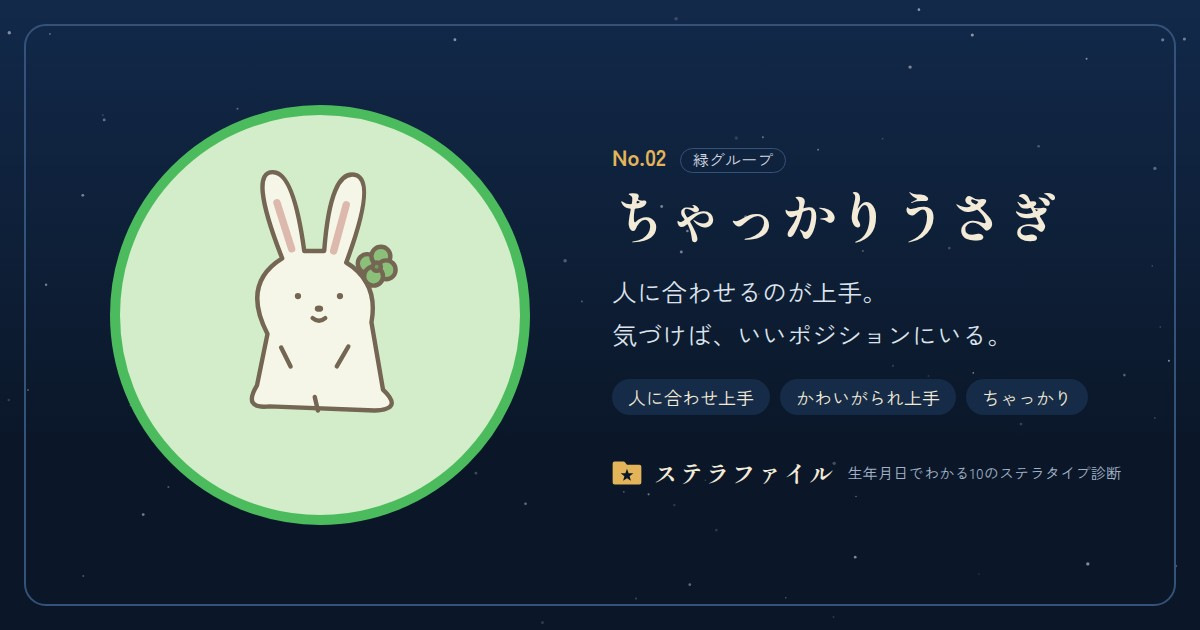
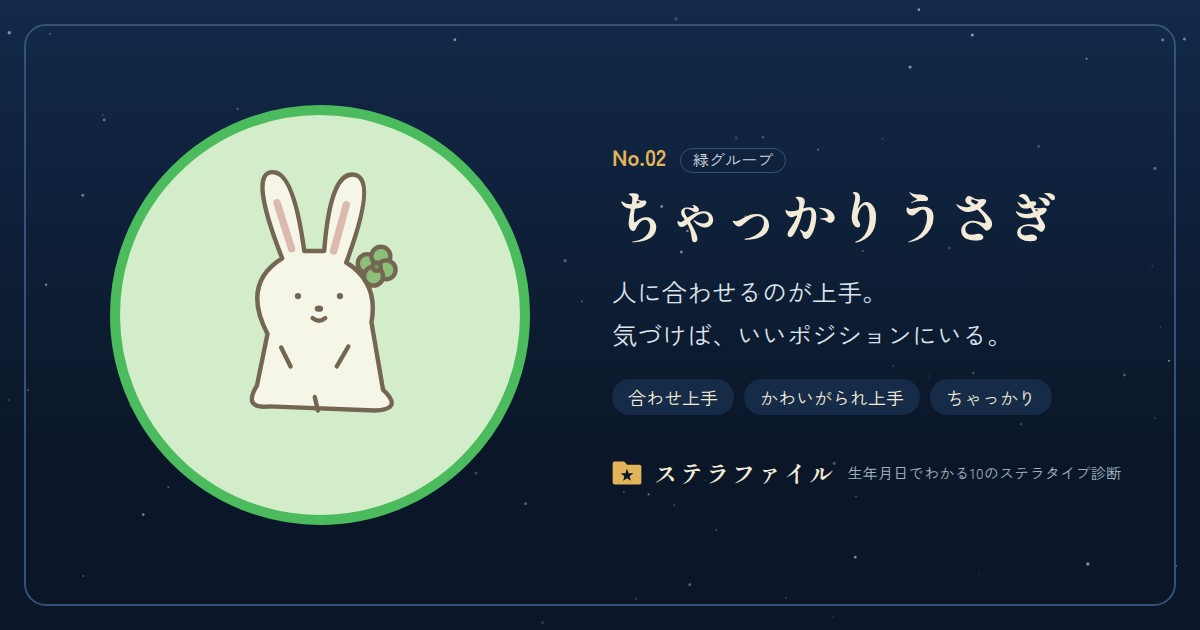
Point to the item from the hero instead of badging the character; unify notation
- Remove the item badge over the character art and the item icon/label in the
  book reveal. The result hero now has a small link, "下にスクロールすると、
  あなたのアイテムがわかります", that jumps to the item chapter.
- Unify spelling across the copy: ズル (noun), ため込む, 抱え込む, 引っ張る,
  ひとりで, ラク, がんばる, 優しい, いい, 周り, 怖い.
- Keywords: 目立ってなんぼ → 華がある, 人に合わせ上手 → 合わせ上手
  (OG cards for phoenix and rabbit regenerated).

Claude-Session: https://claude.ai/code/session_01GAXW9NdvsHc4VH9BHs7hcc

Changed region(s): [[0.5242, 0.6032, 0.925, 0.6635]]

diff --git a/src/data/type-details.ts b/src/data/type-details.ts
@@ -16,7 +16,7 @@ export const TYPE_DETAILS: Record<string, TypeDetail> = {
     jobs: ["スポーツ選手・トレーナー", "警察官・消防士・自衛官", "建築・現場監督", "職人・専門職", "経営者・起業家", "教師・スポーツ指導者", "法律関係", "管理職・リーダー職"],
     relationships: "裏表がなく、さっぱりした付き合いができるので信頼されやすい人。ただ、ストレートな言い方や頑固さから、コミュニケーションのトラブルになることも少なくありません。言い方をひと工夫したり、相手の意見をいったん受け止めたりするだけで、人付き合いがずっとラクになります。",
     stress: "つらくても弱音を吐かず、黙って耐え続けます。でも、限界を超えてポキッと折れてしまうと、しばらく復活できないのがこのタイプ。折れる前に、体を動かしたり、自然の中を散歩したりして、こまめに発散するのがおすすめです。",
-    advice: "結果が出るまでに時間がかかるタイプなので、短い期間で自分を判断しないこと。やりたい役割があるときは、推薦を待たずに一度だけ自分から手を挙げてみましょう。がんばった日に「ほめて」と言える相手がひとりいると、ずいぶん楽になります。",
+    advice: "結果が出るまでに時間がかかるタイプなので、短い期間で自分を判断しないこと。やりたい役割があるときは、推薦を待たずに一度だけ自分から手を挙げてみましょう。がんばった日に「ほめて」と言える相手がひとりいると、ずいぶんラクになります。",
   },
   rabbit: {
     intro: [
@@ -26,7 +26,7 @@ export const TYPE_DETAILS: Record<string, TypeDetail> = {
     aruaru: ["年上や先輩から、よくかわいがられる", "「お願い」と頼むと、だいたい聞いてもらえる", "知り合いの紹介で、いい話が舞い込んでくる", "友だちが多く、いろいろなグループに顔を出している", "相手によって、話し方やキャラを自然に切り替えている", "みんなにいい顔をして、あとでどっと疲れる"],
     weakness: "人に合わせるのが上手なぶん、八方美人になりがち。みんなにいい顔をしようとして、気づけばストレスがたまっています。自分の本音がわからなくなることも。ちゃっかりしているところが、人によっては「ずるい」と見られてしまう場合もあります。",
     romance: "こまめな連絡や、ちょっとした気づかいで距離を縮めていくタイプ。相手の好みに合わせるのが上手なので、モテるほうです。ただ、合わせすぎて本当の自分を見せられないまま疲れてしまうことも。行きたい場所や食べたいものなど、小さなわがままから伝えてみましょう。",
-    work: "人と人の間に入って調整する役割が得意です。相手によって話し方を変えられるので、交渉や営業、接客でも活躍できるタイプ。一人で黙々とやる仕事より、チームの中で動く仕事のほうが向いています。",
+    work: "人と人の間に入って調整する役割が得意です。相手によって話し方を変えられるので、交渉や営業、接客でも活躍できるタイプ。ひとりで黙々とやる仕事より、チームの中で動く仕事のほうが向いています。",
     jobs: ["営業・販売", "秘書・アシスタント", "広報・PR", "接客・サービス業", "カウンセラー", "デザイナー", "フラワー・園芸関係", "編集者"],
     relationships: "友だちが多くなりやすく、人間関係で得をしやすいタイプ。紹介してもらったり、引き立ててもらったりと、縁が次の縁を運んできます。ただ、全員に好かれようとして八方美人になると疲れてしまうので、気をつかわなくていい友だちとの時間を大切にしてください。",
     stress: "表面上はニコニコしながら、心の中でどんどん距離をとっていきます。気づいたら連絡を返さなくなっている、というパターンも。好きなカフェや、かわいいものに囲まれて過ごすと回復します。",
@@ -44,7 +44,7 @@ export const TYPE_DETAILS: Record<string, TypeDetail> = {
     jobs: ["企画・プランナー", "広告・マーケティング", "タレント・配信者", "イベント企画", "営業", "広報", "起業家", "教師・講師"],
     relationships: "明るさに惹かれて自然と人が集まってくる、人気者タイプ。一緒にいる人を前向きな気持ちにできるのは、このタイプの大きな強みです。ただ、「いつも元気な人」というイメージを守ろうとして無理をしがち。元気がない日があっても、あなたを好きな人たちは離れていきません。",
     stress: "イライラが、つい態度や表情に出てしまいます。そんなときは、とにかく外に出るのがいちばん。日の光を浴びたり、友だちとおしゃべりしたりするだけで、驚くほど早く元気を取り戻せます。",
-    advice: "人前に出る役は、遠慮せず引き受けてよいタイプです。そのぶん、始めたことをひとつだけ最後までやりきる経験を意識して増やしましょう。「言い出したら最後までやる人」と思われると、周りからの信頼がいっそう厚くなります。",
+    advice: "人前に出る役は、遠慮せず引き受けていいタイプです。そのぶん、始めたことをひとつだけ最後までやりきる経験を意識して増やしましょう。「言い出したら最後までやる人」と思われると、周りからの信頼がいっそう厚くなります。",
   },
   fox: {
     intro: [
@@ -68,32 +68,32 @@ export const TYPE_DETAILS: Record<string, TypeDetail> = {
     aruaru: ["好きな食べ物や趣味が、何年たっても変わらない", "流行りものには、あまり飛びつかない", "「さすが親分！」とおだてられると、つい張り切ってしまう", "後輩や年下から頼られると、放っておけない", "みんなが尻込みする場面で、なぜか堂々としていられる", "めったに怒らないぶん、怒ると本気で怖がられる"],
     weakness: "自分の軸があるぶん、頑固で融通がきかないと思われることも。おだてに弱く、持ち上げられると無理な頼みまで引き受けてしまいがちです。ふだんは穏やかでも、我慢の限界を超えるとマグマのように爆発し、周りが驚くほど激しく怒ることがあります。",
     romance: "好きになった人のことは、長くずっと大切にするタイプ。刺激よりも安心感を大事にし、付き合うほど味が出ます。頼られるとうれしくて、つい相手の世話を焼いてしまいますが、たまには自分が甘える側に回ってみると、関係にいい変化が生まれます。",
-    work: "チームのまとめ役や、親分ポジションで信頼されます。度胸があるので、トラブルや大事な場面でも逃げずに前に出られる頼もしい存在。やさしいだけでなく、言うべきことはきちんと言える厳しさも持っています。",
+    work: "チームのまとめ役や、親分ポジションで信頼されます。度胸があるので、トラブルや大事な場面でも逃げずに前に出られる頼もしい存在。優しいだけでなく、言うべきことはきちんと言える厳しさも持っています。",
     jobs: ["管理職・マネージャー", "経営者・店長", "公務員", "銀行・金融", "不動産", "建築", "人事・総務", "福祉"],
-    relationships: "面倒見がよく、頼ってくれる人を自分と同じくらい大切にできる人。その安心感から、自然と人が集まってきます。ただ、本気で怒ると周りが驚くほどの激しさがあるので、不満はためこまずに小出しに伝えるのがコツです。",
+    relationships: "面倒見がよく、頼ってくれる人を自分と同じくらい大切にできる人。その安心感から、自然と人が集まってきます。ただ、本気で怒ると周りが驚くほどの激しさがあるので、不満はため込まずに小出しに伝えるのがコツです。",
     stress: "いつもの穏やかさが消えて口数が減り、ピリッとした空気をまといます。爆発する前に、おいしいものを食べて、たっぷり寝るのがいちばんの回復法です。",
-    advice: "頼まれると引き受けてしまうタイプなので、月に一度は「誰の面倒も見ない日」を予定に入れておきましょう。怒りをためこまないよう、小さな不満はその日のうちに軽く伝えるのがコツです。",
+    advice: "頼まれると引き受けてしまうタイプなので、月に一度は「誰の面倒も見ない日」を予定に入れておきましょう。怒りをため込まないよう、小さな不満はその日のうちに軽く伝えるのがコツです。",
   },
   alpaca: {
     intro: [
-      "ほっとけないアルパカは、面倒見がよく、献身的なタイプです。困っている人がいると放っておけず、頼まれる前から手を貸してしまうことも。サービス精神が旺盛で、ボランティアや誰かのお世話を自然と引き受けています。親分のように引っぱるというより、家族のようにそばで支える存在です。",
+      "ほっとけないアルパカは、面倒見がよく、献身的なタイプです。困っている人がいると放っておけず、頼まれる前から手を貸してしまうことも。サービス精神が旺盛で、ボランティアや誰かのお世話を自然と引き受けています。親分のように引っ張るというより、家族のようにそばで支える存在です。",
       "協調性があり、みんなの和を大事にするバランサー。人と人の間に立って、場がうまく回るようにさりげなく調整しています。人を育てるのも得意で、後輩や年下がぐんぐん伸びていくのを見守るのが喜び。どこか独特な雰囲気があり、「ちょっと不思議な人」と見られることもあります。",
     ],
-    aruaru: ["頼まれていないのに、気づくとお世話をしている", "みんなが揉めないように、間に入ってバランスをとる", "人のことが心配で、つい大変な役を引き受けてしまう", "後輩や年下の成長が、自分のことのようにうれしい", "「独特だね」「ちょっと変わってるね」と言われる", "しんどくても、つい一人で我慢してしまう"],
-    weakness: "面倒見がいいぶん、お世話をやりすぎてしまうことがあります。情に流されやすく、頼まれると断れないことも。人のことを心配して大変な役まで引き受け、我慢を重ねるうちに、気づけばストレスを抱えこんでいます。",
+    aruaru: ["頼まれていないのに、気づくとお世話をしている", "みんなが揉めないように、間に入ってバランスをとる", "人のことが心配で、つい大変な役を引き受けてしまう", "後輩や年下の成長が、自分のことのようにうれしい", "「独特だね」「ちょっと変わってるね」と言われる", "しんどくても、ついひとりで我慢してしまう"],
+    weakness: "面倒見がいいぶん、お世話をやりすぎてしまうことがあります。情に流されやすく、頼まれると断れないことも。人のことを心配して大変な役まで引き受け、我慢を重ねるうちに、気づけばストレスを抱え込んでいます。",
     romance: "相手のために尽くす、献身的なタイプ。日々の小さなお世話や気づかいで、家族のようなあたたかい関係を育てていきます。ただ、情に流されやすく、尽くしすぎてしまう傾向も。相手からしてもらうことも、素直に受け取るようにしましょう。",
-    work: "教える、育てる、支える仕事に向いています。一人ひとりに丁寧に向き合えるので、後輩の指導や人材育成で大きな力を発揮します。チームの和を保つバランサーとしても頼られますが、大変な仕事を一人で抱えこまないように気をつけましょう。",
+    work: "教える、育てる、支える仕事に向いています。一人ひとりに丁寧に向き合えるので、後輩の指導や人材育成で大きな力を発揮します。チームの和を保つバランサーとしても頼られますが、大変な仕事をひとりで抱え込まないように気をつけましょう。",
     jobs: ["教師・講師", "保育士", "介護・福祉", "看護師・医療スタッフ", "人事・人材育成", "料理人・食品関係", "農業", "マネージャー・プロデューサー"],
-    relationships: "協調性があり、みんなの間に立ってバランスをとれる人。家族のような距離感で人を大切にするので、自然と周りに人が集まってきます。ただ、我慢をためこみやすいタイプ。ときには「ちょっとしんどい」と口に出しても、関係は崩れません。",
+    relationships: "協調性があり、みんなの間に立ってバランスをとれる人。家族のような距離感で人を大切にするので、自然と周りに人が集まってきます。ただ、我慢をため込みやすいタイプ。ときには「ちょっとしんどい」と口に出しても、関係は崩れません。",
     stress: "つらいことがあっても、周りに心配をかけまいと、なかなか表に出さずに我慢してしまいます。心配ごとで頭がいっぱいになったら、紙に書き出して整理したり、お世話から離れて自分だけの時間を過ごしたりするのがおすすめです。",
     advice: "お世話をする側に回りがちなので、「手伝って」「代わって」を言う回数を意識して増やしましょう。頼られることと同じくらい、頼ることにも慣れておくと、長く無理なく続けられます。",
   },
   doberman: {
     intro: [
-      "正々堂々ドーベルマンは、白黒はっきりさせたい、筋の通ったタイプです。ずるや嘘が本当に苦手で、おかしいと思ったことはきちんと口にします。そのぶん、人とぶつかる場面も少なくありません。でも、どれだけぶつかっても、義理だけはいちばん守る人です。",
+      "正々堂々ドーベルマンは、白黒はっきりさせたい、筋の通ったタイプです。ズルや嘘が本当に苦手で、おかしいと思ったことはきちんと口にします。そのぶん、人とぶつかる場面も少なくありません。でも、どれだけぶつかっても、義理だけはいちばん守る人です。",
       "好き嫌いがはっきり分かれやすいのも、このタイプの特徴。苦手に思われることもあれば、逆にとことん好かれることもあります。飾らない素の自分を認めてほしいという気持ちが強く、自分を曲げない頑固さも持っています。",
     ],
-    aruaru: ["ずるや嘘を見ると、黙っていられない", "気づくと、誰かと言い合いになっている", "苦手に思われる人もいれば、熱烈なファンもいる", "受けた恩や約束は、何年たっても忘れない", "キャラを作るより、素のままでいたい", "遠回しな言い方をされると、じれったくなる"],
+    aruaru: ["ズルや嘘を見ると、黙っていられない", "気づくと、誰かと言い合いになっている", "苦手に思われる人もいれば、熱烈なファンもいる", "受けた恩や約束は、何年たっても忘れない", "キャラを作るより、素のままでいたい", "遠回しな言い方をされると、じれったくなる"],
     weakness: "はっきりしているぶん、言い方がきつくなって人とぶつかりやすいところがあります。素の自分を認めてほしい気持ちが強く、自分を曲げられない頑固さも。ケンカになると、お互いに引けずに長引いてしまうことがあります。",
     romance: "駆け引きは苦手で、正直に話し合える関係が合っています。好きな人には一途で、一度決めた相手への義理は最後まで通します。ぶつかることもありますが、ケンカになったときは、正しさを主張する前に相手の気持ちを聞いてみてください。それだけで、ずいぶん話しやすくなります。",
     work: "判断力と行動力があるので、問題が起きたときや、改革が必要な場面で頼りにされます。結論だけでなく理由も一緒に伝えるようにすると、周りも納得して動いてくれます。",
@@ -109,7 +109,7 @@ export const TYPE_DETAILS: Record<string, TypeDetail> = {
     ],
     aruaru: ["傷つきそうな場面では、先にトゲのある言い方をしてしまう", "本当はケンカしたくないのに、口が悪いと思われる", "近寄りがたい人だと思われていたと、あとから知る", "特別扱いやVIP待遇をされると、内心かなりうれしい", "細かいところまで完璧に仕上げないと気がすまない", "気をつかわない付き合いに、なかなか慣れない"],
     weakness: "傷つきたくない気持ちが強いぶん、トゲのある言い方で相手を遠ざけてしまうことがあります。リラックスした付き合いが苦手で、打ち解けるまでに時間がかかりがち。完璧主義寄りなので、自分にも人にも厳しくなって疲れてしまうこともあります。",
-    romance: "特別扱いされたり、大切にされていると感じたりすると、とてもうれしいタイプ。高嶺の花に見られやすく、なかなか近づいてもらえないことも。傷つくのがこわくて平気なふりをしてしまいがちなので、少しずつ本音を伝えていきましょう。",
+    romance: "特別扱いされたり、大切にされていると感じたりすると、とてもうれしいタイプ。高嶺の花に見られやすく、なかなか近づいてもらえないことも。傷つくのが怖くて平気なふりをしてしまいがちなので、少しずつ本音を伝えていきましょう。",
     work: "完璧主義寄りの性格は、職人仕事や品質にこだわる仕事で大きな武器になります。細部まで妥協しない仕上げで頼りにされるタイプ。理想が高いぶん、どこまでやったら完成かを先に決めておくと、ラクに進められます。",
     jobs: ["職人・クリエイター", "デザイナー・スタイリスト", "ジュエリー・アパレル", "美容師・ヘアメイク", "芸術家・アーティスト", "品質管理・検査", "経理・財務", "士業などの専門職"],
     relationships: "リラックスした付き合いが少し苦手で、高嶺の花のように見られがち。でも、人の痛みがわかる繊細さは、信頼した相手にとって大きな安心になります。合わない場所や人からは、早めに距離をとってかまいません。",
@@ -133,14 +133,14 @@ export const TYPE_DETAILS: Record<string, TypeDetail> = {
   capybara: {
     intro: [
       "温泉カピバラは、穏やかで繊細なタイプです。そばにいるだけで、なぜか周りの空気がゆるんで、癒しが伝染していく不思議な存在。人の気持ちに寄り添うのが上手で、自然と相談相手になっていることも多いはず。",
-      "好きなことにはオタク気質でとことんのめり込み、ひとりで楽しむ時間も大切にします。優しそうに見えるぶん、実は心の中に溜め込んでいるものがすごく多いタイプ。人に寄り添いたいのと同じくらい、自分も誰かに寄り添ってほしいと思っています。",
+      "好きなことにはオタク気質でとことんのめり込み、ひとりで楽しむ時間も大切にします。優しそうに見えるぶん、実は心の中にため込んでいるものがすごく多いタイプ。人に寄り添いたいのと同じくらい、自分も誰かに寄り添ってほしいと思っています。",
     ],
     aruaru: ["好きなジャンルの話になると、止まらなくなる", "推しや趣味の時間が、いちばんの回復手段", "一緒にいると、相手の肩の力が抜けていく", "言いたいことがあっても、つい飲み込んでしまう", "平気そうに見えて、実はけっこう落ち込んでいる", "誰かに寄り添ってもらえると、すごく安心する"],
-    weakness: "繊細なぶん、相手の感情に引っ張られやすく、気持ちが沈みやすいところがあります。優しそうに見えて、実は溜め込みがすごいタイプ。自分の気持ちを飲み込み続けた結果、ある日突然、心が疲れきってしまうこともあります。",
-    romance: "黙っていても気まずくない、寄り添い合える穏やかな関係が理想です。相手の気持ちにそっと寄り添うのが上手ですが、自分も同じくらい寄り添ってほしいタイプ。溜め込む前に、さみしい、聞いてほしい、という気持ちを伝えてみてください。それはわがままではありません。",
+    weakness: "繊細なぶん、相手の感情に引っ張られやすく、気持ちが沈みやすいところがあります。優しそうに見えて、実はため込みがすごいタイプ。自分の気持ちを飲み込み続けた結果、ある日突然、心が疲れきってしまうこともあります。",
+    romance: "黙っていても気まずくない、寄り添い合える穏やかな関係が理想です。相手の気持ちにそっと寄り添うのが上手ですが、自分も同じくらい寄り添ってほしいタイプ。ため込む前に、さみしい、聞いてほしい、という気持ちを伝えてみてください。それはわがままではありません。",
     work: "じっくり考える仕事や、人に寄り添ってサポートする役割が得意です。オタク気質で好きなことを深く掘り下げられるので、研究や創作の分野でも力を発揮します。準備の時間をしっかりとれる環境だと、落ち着いて実力を出せます。",
     jobs: ["カウンセラー・心理職", "看護師・医療", "福祉", "研究者・学者", "作家・ライター", "イラストレーター・漫画家", "企画・開発", "占い師・セラピスト"],
-    relationships: "そばにいるだけで人を癒せる、心のよりどころのような存在です。ただ、人の悩みまで自分のことのように溜め込んでしまいがち。一方的に寄り添うだけでなく、あなたも寄り添ってもらえる関係を大切にしてください。",
+    relationships: "そばにいるだけで人を癒せる、心のよりどころのような存在です。ただ、人の悩みまで自分のことのようにため込んでしまいがち。一方的に寄り添うだけでなく、あなたも寄り添ってもらえる関係を大切にしてください。",
     stress: "心の元気が減ってくると、布団から出たくなくなり、気持ちが沈みがちに。限界が来る前に、温泉やお風呂、好きな作品に浸るなど、のんびり過ごす時間をとりましょう。つらいときは、信頼できる人に早めに話すことも大切です。",
     advice: "人の話を聞く役が多いので、自分の話を聞いてもらえる相手や場所を、意識してひとつ持っておきましょう。落ち込みそうなときは、温泉や好きな作品の時間を早めに入れるのが、いちばんの予防になります。",
   },

diff --git a/src/data/types.ts b/src/data/types.ts
@@ -23,15 +23,15 @@ export type CharacterType = {
 };
 export const CHARACTER_TYPES: CharacterType[] = [
   { stem: "甲", slug: "grizzly", displayName: "ほめ待ちグリズリー", shortCatch: "頼れるしっかり者。でも本当は、ほめてほしい。", summary: "まっすぐで、決めたことをコツコツ積み上げるタイプ。さっぱりした性格で、曲がったことやずるいことが大嫌いです。リーダーを任されるのは嫌いじゃないけれど、シャイなので自分から名乗り出るのは少し苦手。任されてほめられると、実はとてもうれしい。頼もしさと、素直でかわいいところのギャップが魅力です。", strengths: ["コツコツ努力を積み重ねられる", "曲がったことをしないまっすぐさ", "しんどくても投げ出さない忍耐力"], keywords: ["まっすぐ", "さっぱり", "コツコツ"], motif: "大きな木", props: ["小さな胸のリボン"], backgroundMotifs: ["若葉", "控えめな花丸"], imagePrompt: "A sturdy honey-brown grizzly with a pale cream bib, sitting upright, paws shyly together, tiny leaf-green ribbon on chest, quietly waiting for praise; one small green sprout beside it." },
-  { stem: "乙", slug: "rabbit", displayName: "ちゃっかりうさぎ", shortCatch: "人に合わせるのが上手。気づけば、いいポジションにいる。", summary: "人に合わせるのが上手で、自然とかわいがられるタイプ。「面倒を見てあげたい」「守ってあげたい」と思われやすく、人と仲良くなったことがきっかけで、得をしたりチャンスをもらえたりします。友だちも多くなりやすい、人間関係に恵まれやすい人です。", strengths: ["相手に合わせるのが上手", "かわいがられて、助けてもらいやすい", "人との縁をチャンスに変えられる"], keywords: ["人に合わせ上手", "かわいがられ上手", "ちゃっかり"], motif: "草花", props: ["小さな花のアクセサリー"], backgroundMotifs: ["クローバー"], imagePrompt: "An ivory rabbit with long rounded ears, one foot lifted lightly, a tiny four-leaf clover tucked behind one ear, a small clover at its feet, knowing but kind expression." },
-  { stem: "丙", slug: "phoenix", displayName: "勝手に主役フェニックス", shortCatch: "いるだけで場が明るくなる、生まれつきの主役。", summary: "根っから明るい、太陽のようなタイプ。ほかのタイプと比べても圧倒的にポジティブで、一緒にいる人まで元気で前向きな気持ちにしてくれます。顔や名前を覚えてもらいやすく、目立つ場所でこそ本領を発揮する、まさに人生の主役です。", strengths: ["根っからのポジティブさ", "周りを元気で前向きな気持ちにできる", "顔や名前を覚えてもらいやすい"], keywords: ["ポジティブ", "目立ってなんぼ", "ムードメーカー"], motif: "太陽", props: ["小さな丸いステージ"], backgroundMotifs: ["短い光の線"], imagePrompt: "A small coral-red phoenix with a cream belly and golden beak, a simple three-feather crest, wings open on a tiny round gold stage, three short sunshine rays, cheerfully unaware it is the star." },
+  { stem: "乙", slug: "rabbit", displayName: "ちゃっかりうさぎ", shortCatch: "人に合わせるのが上手。気づけば、いいポジションにいる。", summary: "人に合わせるのが上手で、自然とかわいがられるタイプ。「面倒を見てあげたい」「守ってあげたい」と思われやすく、人と仲良くなったことがきっかけで、得をしたりチャンスをもらえたりします。友だちも多くなりやすい、人間関係に恵まれやすい人です。", strengths: ["相手に合わせるのが上手", "かわいがられて、助けてもらいやすい", "人との縁をチャンスに変えられる"], keywords: ["合わせ上手", "かわいがられ上手", "ちゃっかり"], motif: "草花", props: ["小さな花のアクセサリー"], backgroundMotifs: ["クローバー"], imagePrompt: "An ivory rabbit with long rounded ears, one foot lifted lightly, a tiny four-leaf clover tucked behind one ear, a small clover at its feet, knowing but kind expression." },
+  { stem: "丙", slug: "phoenix", displayName: "勝手に主役フェニックス", shortCatch: "いるだけで場が明るくなる、生まれつきの主役。", summary: "根っから明るい、太陽のようなタイプ。ほかのタイプと比べても圧倒的にポジティブで、一緒にいる人まで元気で前向きな気持ちにしてくれます。顔や名前を覚えてもらいやすく、目立つ場所でこそ本領を発揮する、まさに人生の主役です。", strengths: ["根っからのポジティブさ", "周りを元気で前向きな気持ちにできる", "顔や名前を覚えてもらいやすい"], keywords: ["ポジティブ", "華がある", "ムードメーカー"], motif: "太陽", props: ["小さな丸いステージ"], backgroundMotifs: ["短い光の線"], imagePrompt: "A small coral-red phoenix with a cream belly and golden beak, a simple three-feather crest, wings open on a tiny round gold stage, three short sunshine rays, cheerfully unaware it is the star." },
   { stem: "丁", slug: "fox", displayName: "お見通し妖狐", shortCatch: "人一倍よく見ている。だから、誰より気がきく。", summary: "観察力が人一倍強く、ほかの人が見落とす細かいところまで見えているタイプ。だからこそ、言われる前に相手の変化に気づけて、気がきく人と言われます。目の前のものをじっくり見るのが得意で、好きなことにはマニアックなほどこだわる職人気質です。", strengths: ["ほかの人が気づかないことに気づける", "細かいところまでこだわれる職人気質", "人間観察が上手"], keywords: ["観察力", "気がきく", "職人気質"], motif: "灯火", props: ["小さな灯り"], backgroundMotifs: ["細い三日月"], imagePrompt: "A calm white fox with vermilion-red inner ears and short red brow markings, a single large curled vermilion-red tail and rounded ears, sitting beside a tiny warm candle in a clay holder, one small crescent moon, modest closed-mouth smile." },
   { stem: "戊", slug: "panda", displayName: "親分パンダ", shortCatch: "どっしり構えて、ぶれない。頼れるみんなの親分。", summary: "どっしり構えて、自分の軸をぶらさないタイプ。流行に流されず、好きなものはずっと好き。親分肌で、頼られるとうれしくなって面倒を見てしまいます。ふだんは穏やかですが、内側にはマグマのような激しさを秘めていて、いざというときの度胸はピカイチです。", strengths: ["自分の軸をぶらさない", "いざというときの度胸", "頼ってくれる人を最後まで守れる"], keywords: ["どっしり", "親分肌", "度胸"], motif: "山", props: ["お茶のカップ"], backgroundMotifs: ["小さな丘"], imagePrompt: "A round ivory and charcoal panda sitting with a broad reassuring posture, holding a tiny mustard-yellow teacup, a simple low hill line behind, gentle dependable expression." },
-  { stem: "己", slug: "alpaca", displayName: "ほっとけないアルパカ", shortCatch: "困っている人を、ほっとけない。家族みたいなお世話係。", summary: "献身的で面倒見がよく、家族のようにみんなのお世話をしてしまうタイプ。和を大事にするバランサーで、人を育てるのが得意です。ただ、心配しすぎて大変な役まで引き受け、我慢をためこんでしまうことも。どこか独特な雰囲気を持つ、愛されキャラです。", strengths: ["家族のように人を思いやれる献身さ", "場の和を保つバランス感覚", "人をじっくり育てられる"], keywords: ["献身的", "バランサー", "育て上手"], motif: "畑", props: ["寄り添う子どものアルパカ"], backgroundMotifs: ["芽吹き"], imagePrompt: "A fluffy golden-cream alpaca standing front-facing with a big soft topknot, banana-shaped ears and a long fluffy neck, a small baby alpaca snuggled at its side, one sprout beside them, gentle worried-but-kind expression." },
-  { stem: "庚", slug: "doberman", displayName: "正々堂々ドーベルマン", shortCatch: "遠回しな言い方は苦手。でも、誰より義理がたい。", summary: "白黒はっきりさせたい、筋の通ったタイプ。ずるや嘘が本当に苦手で、義理は何より大切にします。ストレートなぶん衝突も多く、好き嫌いがはっきり分かれやすい人。でも、好きになってくれる人からはとことん好かれます。", strengths: ["何より義理を守れる", "ずるや嘘をしないまっすぐさ", "問題から逃げずに向き合える"], keywords: ["義理がたい", "まっすぐ", "好き嫌いが分かれる"], motif: "鉄", props: ["小さな盾のバッジ"], backgroundMotifs: ["一本の旗"], imagePrompt: "A friendly silver-gray doberman with a white muzzle and natural soft floppy ears, upright but rounded posture, a small gold shield badge on a steel-blue collar, tiny white flag planted next to it, earnest expression, never aggressive." },
+  { stem: "己", slug: "alpaca", displayName: "ほっとけないアルパカ", shortCatch: "困っている人を、ほっとけない。家族みたいなお世話係。", summary: "献身的で面倒見がよく、家族のようにみんなのお世話をしてしまうタイプ。和を大事にするバランサーで、人を育てるのが得意です。ただ、心配しすぎて大変な役まで引き受け、我慢をため込んでしまうことも。どこか独特な雰囲気を持つ、愛されキャラです。", strengths: ["家族のように人を思いやれる献身さ", "場の和を保つバランス感覚", "人をじっくり育てられる"], keywords: ["献身的", "バランサー", "育て上手"], motif: "畑", props: ["寄り添う子どものアルパカ"], backgroundMotifs: ["芽吹き"], imagePrompt: "A fluffy golden-cream alpaca standing front-facing with a big soft topknot, banana-shaped ears and a long fluffy neck, a small baby alpaca snuggled at its side, one sprout beside them, gentle worried-but-kind expression." },
+  { stem: "庚", slug: "doberman", displayName: "正々堂々ドーベルマン", shortCatch: "遠回しな言い方は苦手。でも、誰より義理がたい。", summary: "白黒はっきりさせたい、筋の通ったタイプ。ズルや嘘が本当に苦手で、義理は何より大切にします。ストレートなぶん衝突も多く、好き嫌いがはっきり分かれやすい人。でも、好きになってくれる人からはとことん好かれます。", strengths: ["何より義理を守れる", "ズルや嘘をしないまっすぐさ", "問題から逃げずに向き合える"], keywords: ["義理がたい", "まっすぐ", "好き嫌いが分かれる"], motif: "鉄", props: ["小さな盾のバッジ"], backgroundMotifs: ["一本の旗"], imagePrompt: "A friendly silver-gray doberman with a white muzzle and natural soft floppy ears, upright but rounded posture, a small gold shield badge on a steel-blue collar, tiny white flag planted next to it, earnest expression, never aggressive." },
   { stem: "辛", slug: "hedgehog", displayName: "ガラスハートハリネズミ", shortCatch: "トゲトゲは、繊細な心を守るためのガード。", summary: "繊細でデリケート、何より傷つきたくないタイプ。だからこそ針で守りを固め、ときには口がちょっと悪くなることも。本当はケンカもしたくないし、人の痛みがよくわかる人です。完璧主義寄りで、こだわりを形にする職人気質。特別扱いされると、とてもうれしくなります。", strengths: ["完璧を目指せる職人気質", "人の痛みがわかる繊細さ", "こだわりを妥協せず形にできる"], keywords: ["繊細", "完璧主義", "高嶺の花"], motif: "宝石", props: ["透き通るハート"], backgroundMotifs: ["小さな白い花"], imagePrompt: "A small pearl-white hedgehog with a few large rounded silver spines, gently cradling a pale translucent-looking flat blue heart, shy dot eyes, one tiny white flower, protective and tender pose." },
   { stem: "壬", slug: "orca", displayName: "恋も野望も全力シャチ", shortCatch: "好きなことも、やりたいことも、全部本気。", summary: "エネルギッシュで、スケールの大きいタイプ。いろいろな人や価値観を受け入れられる懐の深さがあり、隠していてもどこか目立ってしまう存在感を持っています。興味の向くまま動くので、気づけば人生経験が豊富になっている人です。", strengths: ["尽きないエネルギー", "いろいろな人や価値観を受け入れられる", "経験の多さからくる引き出しの豊富さ"], keywords: ["エネルギッシュ", "懐が深い", "経験豊富"], motif: "海", props: ["小さなハート"], backgroundMotifs: ["丸い波"], imagePrompt: "A friendly small navy-blue-and-ivory orca leaping gently above two simple blue waves, rounded fins, tiny dusty-pink heart beside it, energetic forward pose, minimal flat shapes." },
-  { stem: "癸", slug: "capybara", displayName: "温泉カピバラ", shortCatch: "穏やかで、繊細。そばにいるだけで癒しがうつる人。", summary: "穏やかで繊細、そばにいるだけで周りに癒しが伝染していくタイプ。好きなことにはオタク気質でのめり込みます。優しそうに見えて、実は溜め込みがすごく、ある日突然疲れきってしまう一面も。人に寄り添いたいし、自分も寄り添ってほしい人です。", strengths: ["そばにいる人を自然と癒せる", "人の気持ちに寄り添える", "好きなことをとことん深められる"], keywords: ["癒し系", "オタク気質", "寄り添い"], motif: "雨露", props: ["頭の葉っぱ"], backgroundMotifs: ["湯気", "やさしい水面"], imagePrompt: "A relaxed warm-tan capybara soaking in a simple clear-blue oval hot spring, one small green leaf on its head, two soft steam curls, tiny peaceful eyes, broad rounded nose." },
+  { stem: "癸", slug: "capybara", displayName: "温泉カピバラ", shortCatch: "穏やかで、繊細。そばにいるだけで癒しがうつる人。", summary: "穏やかで繊細、そばにいるだけで周りに癒しが伝染していくタイプ。好きなことにはオタク気質でのめり込みます。優しそうに見えて、実はため込みがすごく、ある日突然疲れきってしまう一面も。人に寄り添いたいし、自分も寄り添ってほしい人です。", strengths: ["そばにいる人を自然と癒せる", "人の気持ちに寄り添える", "好きなことをとことん深められる"], keywords: ["癒し系", "オタク気質", "寄り添い"], motif: "雨露", props: ["頭の葉っぱ"], backgroundMotifs: ["湯気", "やさしい水面"], imagePrompt: "A relaxed warm-tan capybara soaking in a simple clear-blue oval hot spring, one small green leaf on its head, two soft steam curls, tiny peaceful eyes, broad rounded nose." },
 ];
 export const typeByStem = (stem: Stem) => CHARACTER_TYPES.find(type => type.stem === stem)!;
 export const typeBySlug = (slug: string) => CHARACTER_TYPES.find(type => type.slug === slug);

diff --git a/src/app/globals.css b/src/app/globals.css
@@ -205,9 +205,6 @@ button, .button, .tab-bar, .profile-toc, .keywords, .chip-button { -webkit-user-
 .profile-hero { display: grid; grid-template-columns: 1fr 1fr; align-items: center; gap: 64px; }
 .profile-art { position: relative; display: flex; align-items: center; justify-content: center; aspect-ratio: 1; border-radius: var(--r-l); border: 3px solid var(--el); }
 .profile-art .character { width: 84%; height: 84%; object-fit: contain; }
-.item-badge { position: absolute; top: 14px; right: 14px; z-index: 2; display: flex; flex-direction: column; align-items: center; gap: 4px; }
-.item-badge-icon { display: grid; place-items: center; width: 56px; height: 56px; border-radius: 50%; border: 2px solid var(--accent); color: var(--accent); background: var(--paper); }
-.item-badge-label { max-width: 130px; padding: 1px 10px; border-radius: 999px; background: var(--accent); color: var(--on-accent); font-size: 12px; font-weight: 700; line-height: 1.6; text-align: center; }
 .profile-title > * { animation: rise .6s var(--ease) both; }
 .profile-title > :nth-child(n+3) { animation-delay: .08s; }
 .profile-meta { display: flex; flex-wrap: wrap; align-items: center; gap: 8px 14px; margin-bottom: 14px; }
@@ -219,6 +216,9 @@ button, .button, .tab-bar, .profile-toc, .keywords, .chip-button { -webkit-user-
 .profile-catch { font-size: 17px; line-height: 1.9; color: var(--body); }
 .keywords { display: flex; flex-wrap: wrap; gap: 6px; margin: 16px 0 0; padding: 0; list-style: none; }
 .keywords li { padding: 4px 12px; border-radius: 999px; background: var(--surface-2); font-size: 13px; }
+.item-hint { display: block; width: fit-content; max-width: 100%; margin-top: 18px; font-size: 13px; line-height: 1.7; color: var(--accent); }
+.item-hint svg { margin-left: 3px; vertical-align: -3px; }
+@media (hover: hover) { .item-hint:hover { text-decoration: underline; text-underline-offset: 3px; } }
 .profile-cta { display: grid; justify-items: start; gap: 10px; margin-top: 26px; padding-top: 22px; border-top: 1px solid var(--line); }
 .profile-cta-lead { font-size: 15px; font-weight: 700; color: var(--accent); }
 
@@ -327,8 +327,6 @@ button, .button, .tab-bar, .profile-toc, .keywords, .chip-button { -webkit-user-
 .reveal-card-art .character { width: 88%; height: 88%; }
 .reveal-card p { font-size: 14px; color: var(--muted); }
 .reveal-card strong { display: block; font-family: var(--serif); font-size: clamp(22px, 6.4vw, 30px); line-height: 1.4; white-space: nowrap; color: var(--ink); }
-.reveal-item { position: absolute; top: 0; left: calc(50% + 48px); display: grid; place-items: center; width: 48px; height: 48px; border-radius: 50%; border: 2px solid var(--accent); color: var(--accent); background: var(--paper); animation: br-item-pop .5s var(--ease) 2.7s both; }
-.reveal-card .reveal-item-label { margin-top: 6px; font-weight: 700; color: var(--accent); }
 .reveal-skip { position: absolute; bottom: calc(28px + env(safe-area-inset-bottom)); left: 0; right: 0; text-align: center; font-size: 12px; color: var(--muted); animation: br-fade-in .5s ease 1s both; }
 
 /* ---------- Motion (one-time only) ---------- */
@@ -345,7 +343,6 @@ button, .button, .tab-bar, .profile-toc, .keywords, .chip-button { -webkit-user-
 @keyframes br-cover-open { to { transform: rotateY(-172deg); } }
 @keyframes br-flip { to { transform: rotateY(-165deg); } }
 @keyframes br-card-pop { from { opacity: 0; translate: -50% -44%; } to { opacity: 1; translate: -50% -50%; } }
-@keyframes br-item-pop { from { opacity: 0; scale: .6; } }
 
 @media (hover: none) {
   .type-card:hover .type-card-art, .constellation-star:hover { transform: none; }
@@ -374,6 +371,7 @@ button, .button, .tab-bar, .profile-toc, .keywords, .chip-button { -webkit-user-
   .profile-art { width: 100%; max-width: 360px; }
   .profile-meta, .keywords, .share-buttons { justify-content: center; }
   .profile-cta { justify-items: center; }
+  .item-hint { margin-inline: auto; }
   .profile-toc { top: 64px; border-radius: var(--r); }
   .strength-pair { grid-template-columns: 1fr; }
   .compat-group { grid-template-columns: 1fr; }
@@ -450,8 +448,6 @@ button, .button, .tab-bar, .profile-toc, .keywords, .chip-button { -webkit-user-
   .breadcrumb { margin-bottom: 12px; font-size: 12px; }
   .profile-hero { gap: 18px; }
   .profile-art { max-width: 280px; }
-  .item-badge { top: 10px; right: 10px; }
-  .item-badge-icon { width: 48px; height: 48px; }
   .profile-meta { gap: 8px 10px; margin-bottom: 8px; }
   .profile-no { font-size: 14px; }
   .element-chip { font-size: 11px; }
@@ -460,6 +456,7 @@ button, .button, .tab-bar, .profile-toc, .keywords, .chip-button { -webkit-user-
   .profile-catch { max-width: 20em; margin-inline: auto; font-size: 15px; line-height: 1.85; }
   .keywords { margin-top: 12px; }
   .keywords li { font-size: 12px; }
+  .item-hint { margin: 14px auto 0; font-size: 12px; text-align: center; }
   .share-actions { margin-top: 16px; }
   .share-buttons { gap: 6px; }
   .share-save { flex: 1 1 100%; max-width: 320px; }

diff --git a/src/lib/diagnosis/ten-gods.ts b/src/lib/diagnosis/ten-gods.ts
@@ -25,9 +25,9 @@ export function tenGod(dayStem: Stem, target: Stem): TenGod {
 }
 /** Each relationship is presented to users as an "item" the type carries; no technical names are shown. */
 export const GOD_COPY: Record<TenGod, { item: string; title: string; strength: string; hint: string }> = {
-  比肩: { item: "ダンベル", title: "自分の力でどんどん強くなれる", strength: "誰かに頼るより、自分で鍛えて伸びていくタイプ。エネルギーが高く、ここぞという場面では底力を発揮できます。努力した分だけ、しっかり自分の力になっていく人です。", hint: "ひとりで頑張りすぎた日は、ちゃんと休むのもトレーニングのうち。" },
-  劫財: { item: "王冠", title: "仲間と組むほど強くなれる", strength: "ひとりより、仲間と一緒のほうが力を発揮できる人。自然とまわりをまとめて、チームの中心に立つ場面が多いはず。仲間の力を借りて、大きなことを成し遂げられます。", hint: "仲間のために張り切りすぎて、自分の分を後回しにしないように。" },
-  食神: { item: "クッキー缶", title: "人生を楽しむのが上手", strength: "楽しいことを思いつくのが得意で、アイデアを出すのも、おしゃべりも上手な人。おいしいものや心地いいことを見つけるのもお手のものです。遊びや楽なほうに流れてしまう日もありますが、楽しむ力があるぶん、人生そのものが楽しくなっていきます。", hint: "気が乗らないことは、楽しめる工夫をひとつ足すと進みやすくなります。" },
+  比肩: { item: "ダンベル", title: "自分の力でどんどん強くなれる", strength: "誰かに頼るより、自分で鍛えて伸びていくタイプ。エネルギーが高く、ここぞという場面では底力を発揮できます。努力した分だけ、しっかり自分の力になっていく人です。", hint: "ひとりでがんばりすぎた日は、ちゃんと休むのもトレーニングのうち。" },
+  劫財: { item: "王冠", title: "仲間と組むほど強くなれる", strength: "ひとりより、仲間と一緒のほうが力を発揮できる人。自然と周りをまとめて、チームの中心に立つ場面が多いはず。仲間の力を借りて、大きなことを成し遂げられます。", hint: "仲間のために張り切りすぎて、自分の分を後回しにしないように。" },
+  食神: { item: "クッキー缶", title: "人生を楽しむのが上手", strength: "楽しいことを思いつくのが得意で、アイデアを出すのも、おしゃべりも上手な人。おいしいものや心地いいことを見つけるのもお手のものです。遊びやラクなほうに流れてしまう日もありますが、楽しむ力があるぶん、人生そのものが楽しくなっていきます。", hint: "気が乗らないことは、楽しめる工夫をひとつ足すと進みやすくなります。" },
   傷官: { item: "トゲのあるバラ", title: "鋭いけど、実は傷つきやすい", strength: "頭の回転が速く、思ったことをズバッと言える人。その一言が鋭すぎて、相手をドキッとさせてしまうことも。でも本当は、人一倍傷つきやすくて繊細です。その感性の鋭さは、センスや表現力として大きな武器になります。", hint: "言いすぎたかなと思ったら、あとで一言フォローするだけで印象が変わります。" },
   偏財: { item: "スマホ", title: "フットワーク軽く、人とつながれる", strength: "いろいろな人とつながって、情報やチャンスをキャッチするのが上手な人。興味のあることにはフットワーク軽く動けるので、人の輪がどんどん広がっていきます。その顔の広さが、思わぬチャンスを運んできてくれます。", hint: "つながりが増えて疲れたら、通知を切ってひとりの時間で充電を。" },
   正財: { item: "スケジュール帳", title: "先を見越して、しっかり計画できる", strength: "先のことまで見越して、しっかり計画を立てられる人。予定ややることを整理して、一歩ずつ着実に進めていけます。お金のやりくりも得意で、貯金もコツコツ続けられるタイプです。", hint: "計画どおりにいかない日があっても大丈夫。予定に少し余白を残しておくと、気持ちがラクになります。" },

diff --git a/src/components/profile.tsx b/src/components/profile.tsx
@@ -1,6 +1,6 @@
 import Link from "next/link";
 import { ViewTransition } from "react";
-import { ArrowRight, Check, ArrowLeft, RotateCcw } from "lucide-react";
+import { ArrowRight, Check, ArrowLeft, RotateCcw, ChevronDown } from "lucide-react";
 import { CHARACTER_TYPES, groupName, elementStyle, typeByStem, type CharacterType } from "@/data/types";
 import { TYPE_DETAILS } from "@/data/type-details";
 import type { DiagnosisResult } from "@/lib/diagnosis";
@@ -18,11 +18,6 @@ const COMPATIBILITY_LABELS: Record<CompatibilityLevel, { label: string; note: st
   attracted: { label: "惹かれやすい相手", note: "つい気になって、世話を焼きたくなる相手。あなたの応援が、相手の力になります。" },
   caution: { label: "ちょっと注意", note: "考え方がぶつかりやすい相手。違いを知っておけば、うまく付き合えます。" },
 };
-
-function ItemBadge({ tenGod }: { tenGod: TenGod }) {
-  const Icon = ITEM_ICONS[tenGod];
-  return <a className="item-badge" href="#item" aria-label={`あなたのアイテム：${GOD_COPY[tenGod].item}`}><span className="item-badge-icon"><Icon size={26} strokeWidth={1.6} aria-hidden="true" /></span><span className="item-badge-label">{GOD_COPY[tenGod].item}</span></a>;
-}
 
 function ItemCard({ tenGod }: { tenGod: TenGod }) {
   const copy = GOD_COPY[tenGod], Icon = ITEM_ICONS[tenGod];
@@ -71,13 +66,14 @@ export function Profile({ type, result }: { type: CharacterType; result?: Diagno
   return <article className="profile page-width">
     {!result && <Link className="breadcrumb" href="/types/"><ArrowLeft size={15} aria-hidden="true" />ステラタイプ一覧へ</Link>}
     <div className="profile-hero">
-      <ViewTransition name={`character-${type.slug}`}><div className="profile-art" style={elementStyle(type.stem)}><Character type={type} priority />{result && <ItemBadge tenGod={result.tenGod} />}</div></ViewTransition>
+      <ViewTransition name={`character-${type.slug}`}><div className="profile-art" style={elementStyle(type.stem)}><Character type={type} priority /></div></ViewTransition>
       <div className="profile-title">
         <p className="profile-meta"><span className="profile-no">No.{number}<small>/ 10</small></span><span className="element-chip" style={elementStyle(type.stem)}><span className="element-orb" aria-hidden="true" />{groupName(type.stem)}</span></p>
         {result && <p className="result-lead">あなたのステラタイプは</p>}
         <h1><Bx>{type.displayName}</Bx></h1>
         <p className="profile-catch"><Bx>{type.shortCatch}</Bx></p>
         <ul className="keywords">{type.keywords.map(word => <li key={word}>{word}</li>)}</ul>
+        {result && <a className="item-hint" href="#item"><Bx>下にスクロールすると、あなたのアイテムがわかります</Bx><ChevronDown size={16} aria-hidden="true" /></a>}
         {result ? <ShareActions type={type} mode="result" /> : <div className="profile-cta">
           <p className="profile-cta-lead">あなたは何タイプ？</p>
           <Link className="button primary" href="/#diagnose">生年月日で診断する <ArrowRight size={18} aria-hidden="true" /></Link>

diff --git a/src/components/book-reveal.tsx b/src/components/book-reveal.tsx
@@ -1,8 +1,6 @@
 "use client";
 import { useEffect, useRef, useState } from "react";
 import { elementColors, type CharacterType } from "@/data/types";
-import { GOD_COPY, type TenGod } from "@/lib/diagnosis/ten-gods";
-import { ITEM_ICONS } from "./item-icon";
 import { Character } from "./character";
 import { LOGO_PATH } from "./logo";
 
@@ -16,8 +14,7 @@ function CoverArt() {
   </svg>;
 }
 
-export function BookReveal({ type, tenGod, onDone }: { type: CharacterType; tenGod: TenGod; onDone: () => void }) {
-  const ItemIcon = ITEM_ICONS[tenGod];
+export function BookReveal({ type, onDone }: { type: CharacterType; onDone: () => void }) {
   const [leaving, setLeaving] = useState(false);
   const element = elementColors(type.stem);
   const done = useRef(onDone); done.current = onDone;
@@ -39,10 +36,8 @@ export function BookReveal({ type, tenGod, onDone }: { type: CharacterType; tenG
       </div>
       <div className="reveal-card">
         <div className="reveal-card-art"><Character type={type} priority /></div>
-        <span className="reveal-item"><ItemIcon size={22} strokeWidth={1.6} /></span>
         <p>あなたのステラタイプは</p>
         <strong>{type.displayName}</strong>
-        <p className="reveal-item-label">アイテム：{GOD_COPY[tenGod].item}</p>
       </div>
     </div>
     <p className="reveal-skip">タップでスキップ</p>

diff --git a/tests/e2e/journey.spec.ts b/tests/e2e/journey.spec.ts
@@ -11,6 +11,8 @@ test("birthday validation → result → share image → catalog", async ({ page
   await expect(page.getByRole("heading", { level: 1 })).toHaveText("ほめ待ちグリズリー");
   await expect(page.getByRole("heading", { name: "あなたのアイテム", exact: true })).toBeVisible(); await expect(page.getByRole("heading", { name: "スケジュール帳", exact: true })).toBeVisible(); await expect(page.getByText("先を見越して、しっかり計画できる")).toBeVisible();
   await expect(page.getByText("星から受け取ったギフト", { exact: false })).toBeVisible();
+  // The item is not drawn over the character; a hint under the title points down to its chapter.
+  await expect(page.locator(".profile-art a")).toHaveCount(0); await expect(page.locator(".item-hint")).toHaveAttribute("href", "#item");
   // The official LINE invitation sits once, below the explanation (URL comes from NEXT_PUBLIC_LINE_URL in playwright.config).
   await expect(page.getByRole("link", { name: "LINEで友だち追加" })).toHaveCount(1); await expect(page.getByRole("link", { name: "LINEで友だち追加" })).toHaveAttribute("href", "https://lin.ee/e2e-example");
   await expect(page.getByText("グループ", { exact: false }).first()).toBeVisible(); await expect(page.getByText("エレメント", { exact: false })).toHaveCount(0);

diff --git a/src/components/result-view.tsx b/src/components/result-view.tsx
@@ -17,5 +17,5 @@ export function ResultView() {
   if (!loaded) return <div className="empty-state" role="status">結果を読み込んでいます…</div>;
   if (!result) return <section className="empty-state"><h1>まだ診断結果がありません</h1><p>生年月日を入力すると、あなたのタイプがわかります。</p><Link className="button primary" href="/#diagnose">診断をはじめる <ArrowRight size={17} aria-hidden="true" /></Link></section>;
   const type = typeByStem(result.pillar.stem);
-  return <>{reveal && <BookReveal type={type} tenGod={result.tenGod} onDone={() => { clearRevealPending(); setReveal(false); }} />}<Profile type={type} result={result} /></>;
+  return <>{reveal && <BookReveal type={type} onDone={() => { clearRevealPending(); setReveal(false); }} />}<Profile type={type} result={result} /></>;
 }
